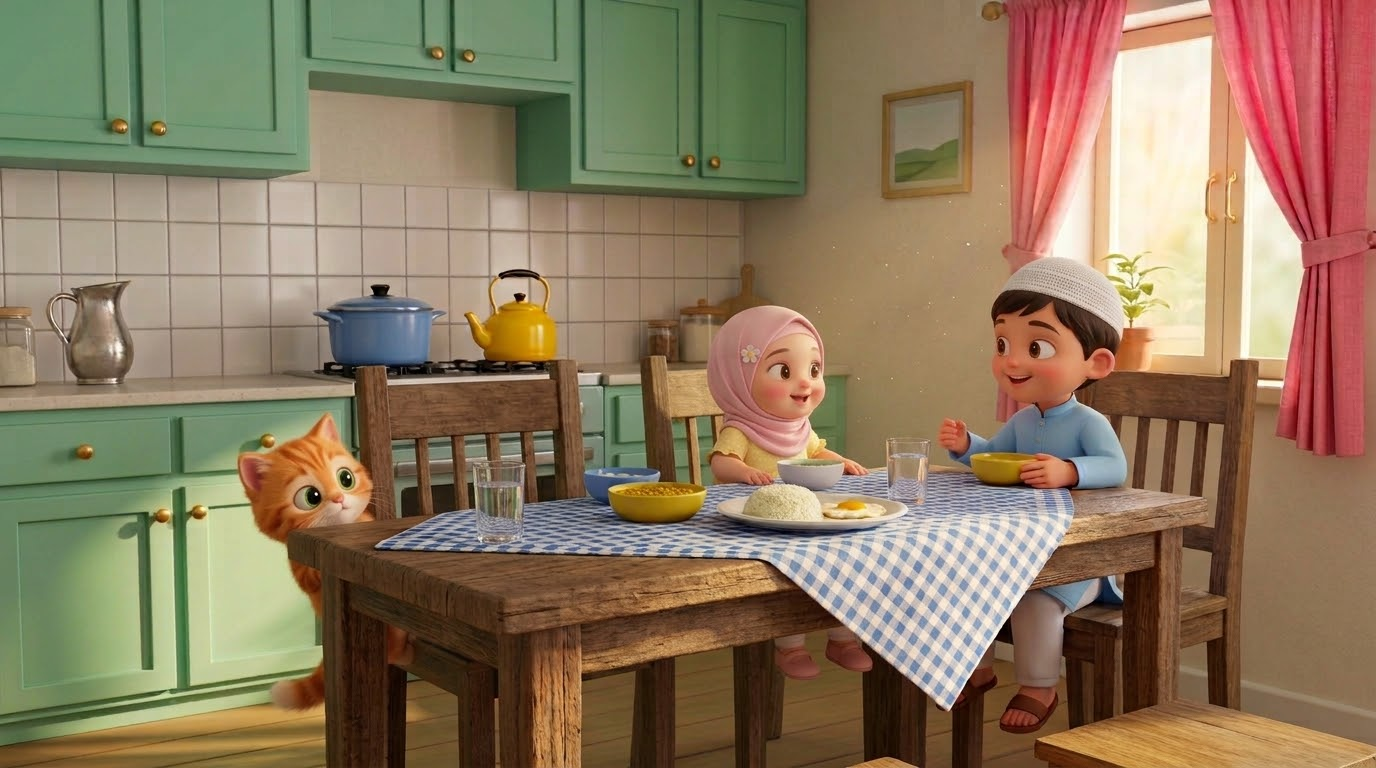
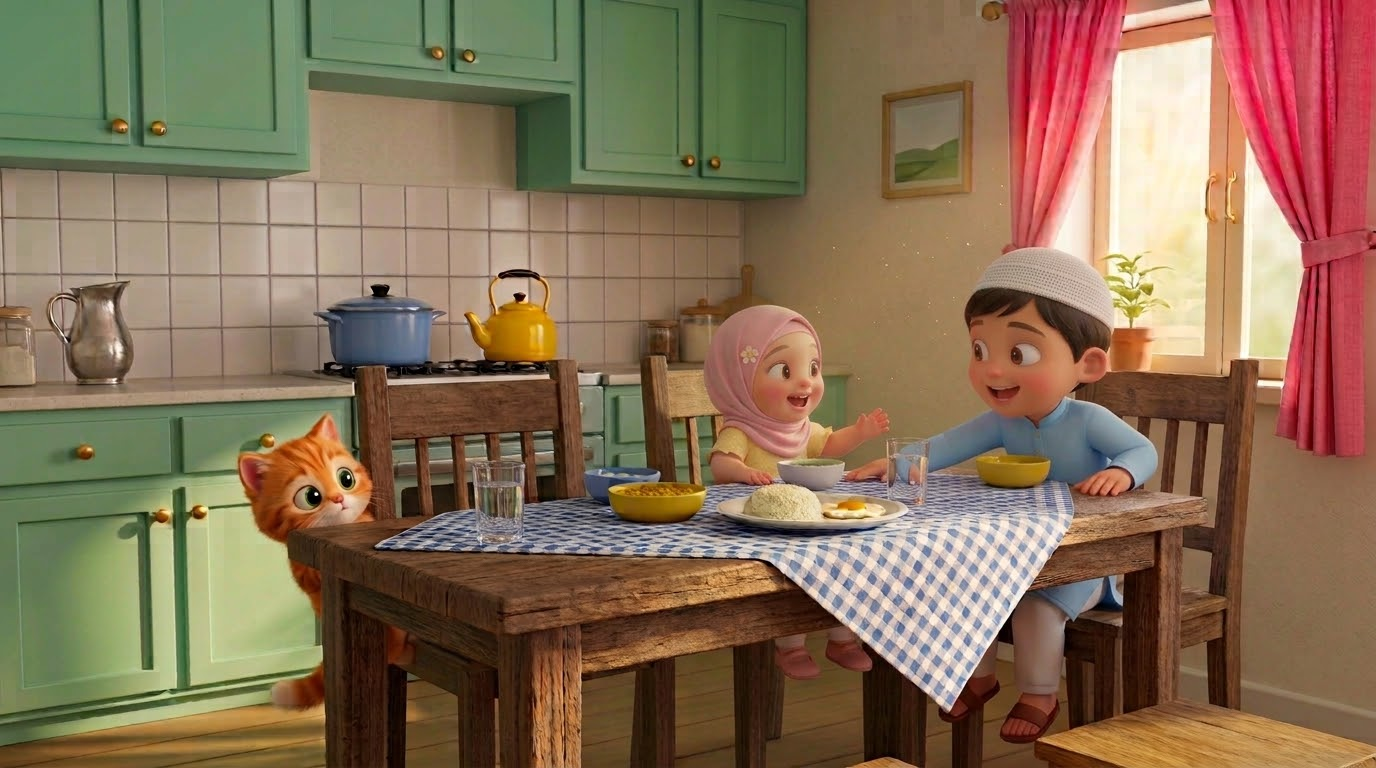
Fix scene images 4, 9 and 12 for episode 1
Scene 4 now shows Umayer reaching across to the middle of the table.
Scene 9 is mirrored so Umayer raises his right hand, cropped first so no
Arabic calligraphy is shown reversed. Scene 12 is cropped to drop the
baked-in caption. Originals are kept in assets/scene-originals.

Claude-Session: https://claude.ai/code/session_01Hu6CTzLQn3X4rZTRtFg18M

diff --git a/video/src/episodes/ep01-clips.ts b/video/src/episodes/ep01-clips.ts
@@ -27,7 +27,7 @@ export const EP01_IMAGE_SECONDS: Record<number, number> = {
 export const EP01_IMAGE_MOVE: Record<number, {to: number; origin: [number, number]}> = {
   2: {to: 1.1, origin: [35, 45]},
   3: {to: 1.08, origin: [45, 40]},
-  4: {to: 1.35, origin: [20, 58]},
+  4: {to: 1.2, origin: [50, 62]},
   6: {to: 1.08, origin: [35, 35]},
   9: {to: 1.1, origin: [65, 35]},
   10: {to: 1.12, origin: [45, 70]},

diff --git a/assets/scene-originals/README.md b/assets/scene-originals/README.md
@@ -1,0 +1,6 @@
+# দৃশ্যের মূল ছবি (বদলানোর আগের)
+
+| ফাইল | কী বদলানো হয়েছে |
+|---|---|
+| `scene09-original.jpg` | মূল ছবিতে উমায়ের বাম হাত তুলেছিল। ভিডিওতে ব্যবহৃত ছবিটা আয়নার মতো উল্টে ডান হাত করা হয়েছে, আর উল্টানোর আগে দেয়ালের ক্যালিগ্রাফির ফ্রেম কেটে বাদ দেওয়া হয়েছে যাতে আরবি লেখা উল্টো না দেখায়। |
+| `scene12-original.jpg` | নিচের "বিচমিল্লাহ!" লেখাটা কেটে বাদ দেওয়া হয়েছে, কারণ ভিডিওতে লেখা আলাদাভাবে কথার বাবলে আসে। |
